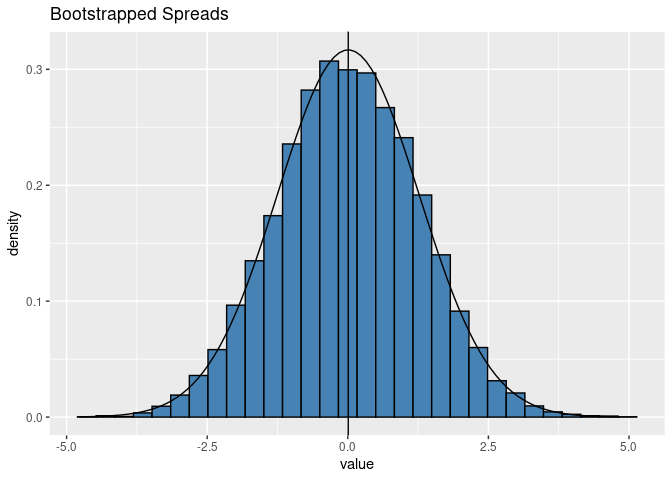
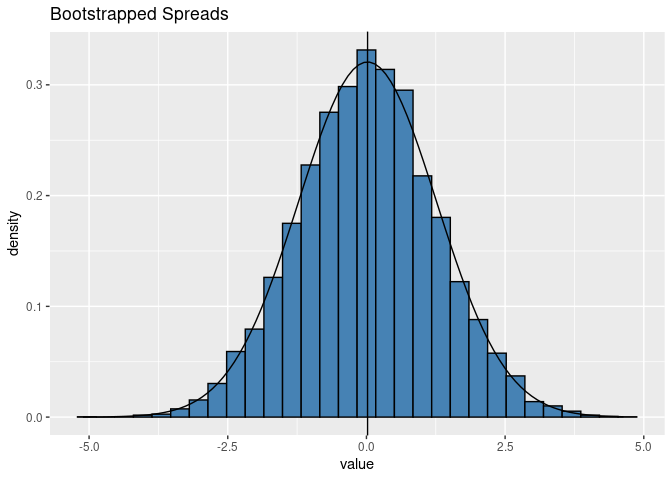
Maybe

diff --git a/Analysis/03_candidate_probabilities.md b/Analysis/03_candidate_probabilities.md
@@ -21,12 +21,12 @@ boot_spread %>% head()
 ```
 
     ##        value
-    ## 1  1.2777778
-    ## 2 -1.7933333
-    ## 3 -0.1155556
-    ## 4  0.5644444
-    ## 5 -2.0000000
-    ## 6 -0.7111111
+    ## 1  0.2333333
+    ## 2 -1.3000000
+    ## 3 -0.5222222
+    ## 4 -0.3333333
+    ## 5  1.1544444
+    ## 6  0.5444444
 
 ``` r
 ggplot(boot_data, aes(actual_spread)) +
